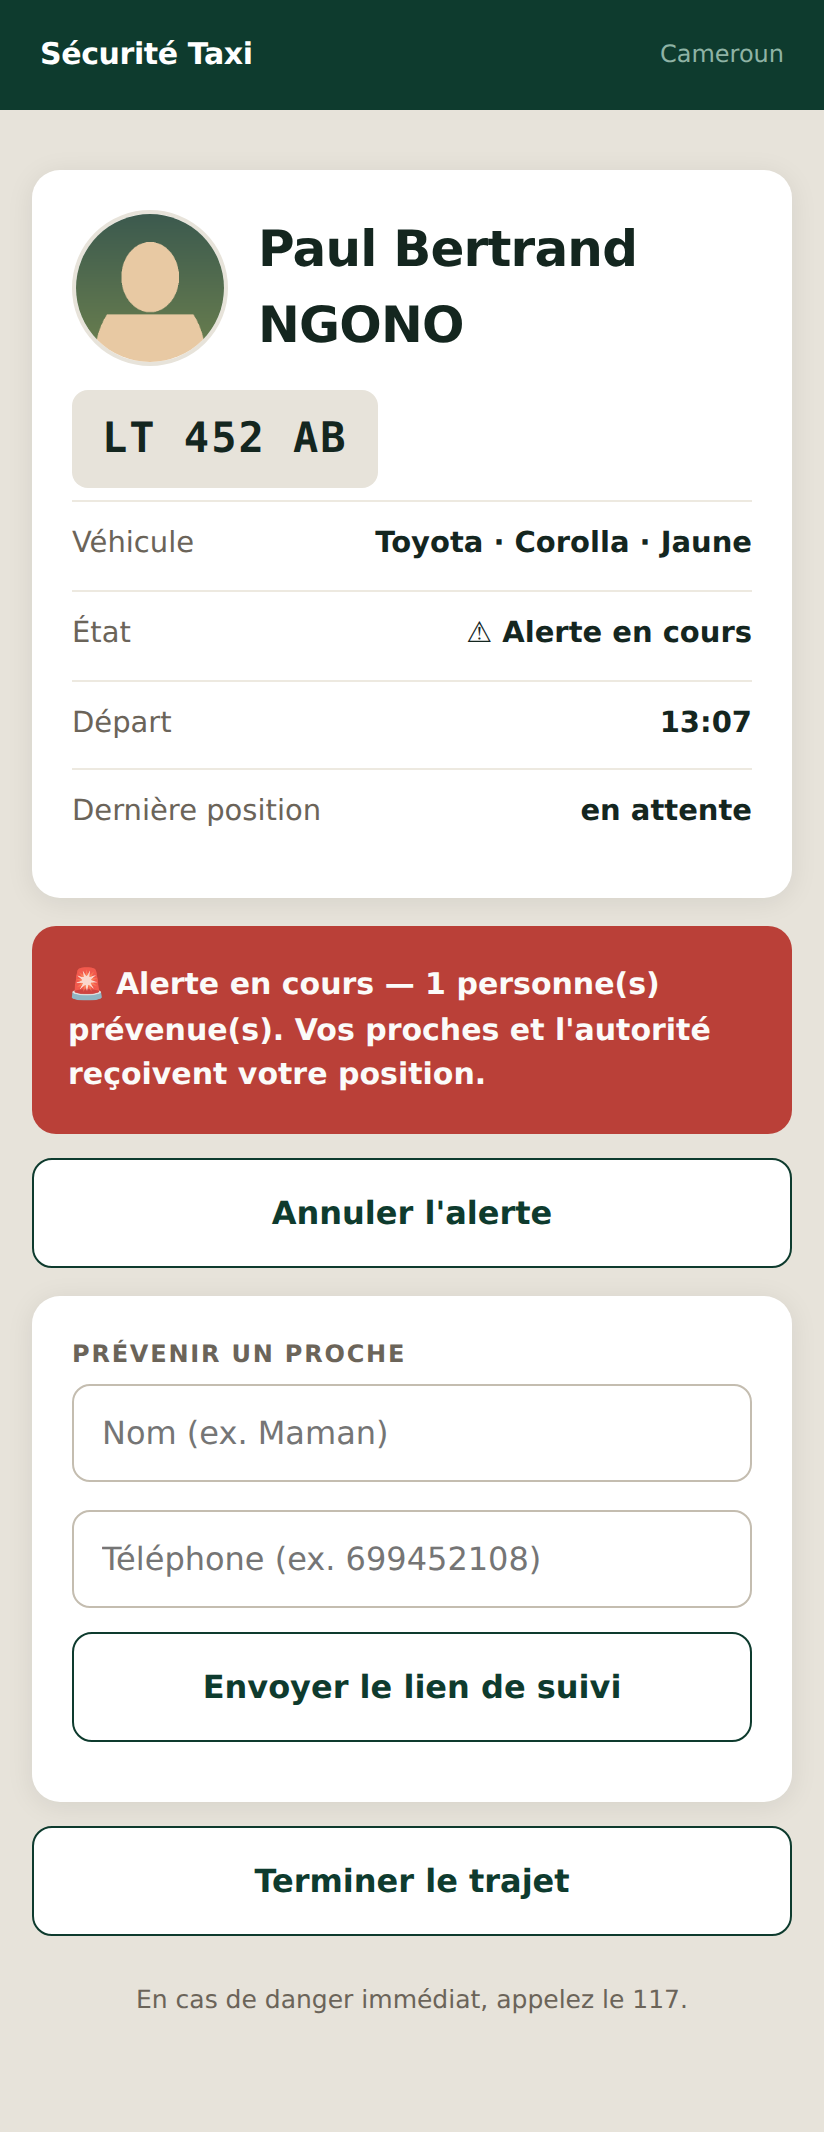
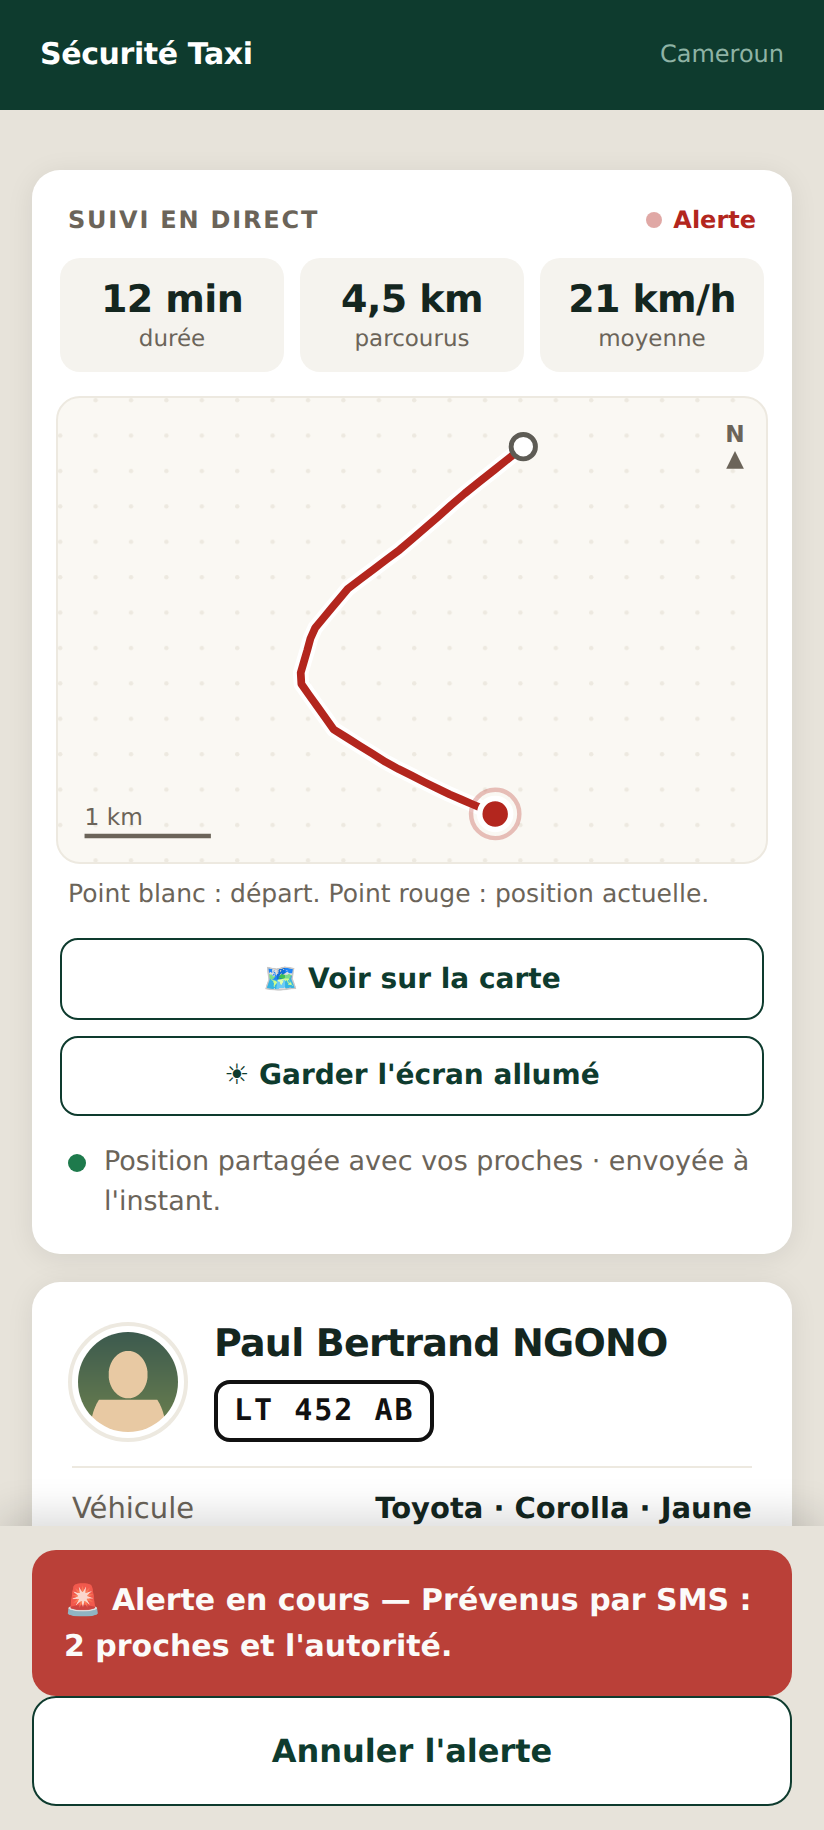
Montre le suivi en direct du trajet dans Sécurité Taxi
Captures refaites : le scan avec la photo du chauffeur, le trajet suivi
en direct avec les proches prévenus, l'alerte fixée sous le pouce (sa
vignette montre le bas de l'écran, là où vit la barre d'alerte). Chiffres
recalculés avec la même méthode (lignes TypeScript, SQL et shell ; commits
du dépôt) : 19 000 lignes, 4 parcours, 35 itérations. Leaflet rejoint la
pile, pour la carte des rues à la demande.

diff --git a/index.html b/index.html
@@ -324,6 +324,7 @@ section{padding:88px 0 0;}
    (de 0.25 à 0.45), et une grille aux hauteurs inégales laisse des vides.
    Le cadrage part du haut, là où se trouve l'essentiel de l'écran. */
 .vue img{width:100%;display:block;aspect-ratio:9/17;object-fit:cover;object-position:top;}
+.vue.bas img{object-position:bottom;}
 /* Les captures de bureau sont en 16:10 : les forcer au format téléphone
    les rognerait de moitié. */
 .galerie.bureau .vue img{aspect-ratio:16/10;}
@@ -557,8 +558,8 @@ footer{
         <h3>Sécurité Taxi Cameroun</h3>
         <p class="role">Sécurité des transports en commun</p>
         <p class="accroche-carte">L'information arrive avant la décision.</p>
-        <div class="mini-faits"><div class="mini-fait"><b>17 000</b><span>lignes de code</span></div><div class="mini-fait"><b>4</b><span>parcours distincts</span></div><div class="mini-fait"><b>32</b><span>itérations</span></div></div>
-        <div class="piles"><span class="pile">NestJS</span><span class="pile">TypeScript</span><span class="pile">PostgreSQL</span><span class="pile">Docker</span><span class="pile discret">+3</span></div>
+        <div class="mini-faits"><div class="mini-fait"><b>19 000</b><span>lignes de code</span></div><div class="mini-fait"><b>4</b><span>parcours distincts</span></div><div class="mini-fait"><b>35</b><span>itérations</span></div></div>
+        <div class="piles"><span class="pile">NestJS</span><span class="pile">TypeScript</span><span class="pile">PostgreSQL</span><span class="pile">Docker</span><span class="pile discret">+4</span></div>
         <span class="carte-aller">Voir le détail <span aria-hidden="true">→</span></span>
       </button>
       <button class="carte-projet monte" type="button" data-projet="linguacampus"
@@ -1033,8 +1034,8 @@ footer{
         <div class="saillant">
           <b>L'information arrive avant la décision.</b> Tout l'intérêt tient à cet
           instant : une vérification qui n'aurait lieu qu'une fois la portière fermée ne
-          servirait à rien. Une fois à bord, elle partage son trajet avec un proche et
-          peut déclencher une alerte d'un seul appui.
+          servirait à rien. Une fois à bord, elle suit sa course en direct, la partage
+          avec ses proches et garde sous le pouce un bouton d'alerte.
         </div>
         <p>
           Côté autorités : dossiers de chauffeurs, examen des pièces, file de traitement
@@ -1048,22 +1049,23 @@ footer{
           jours et les sauvegardes chiffrées, comme l'exige la loi n° 2024/017.
         </p>
         <div class="faits">
-          <div class="fait"><div class="n">17 000</div><div class="q">lignes de code</div></div>
+          <div class="fait"><div class="n">19 000</div><div class="q">lignes de code</div></div>
           <div class="fait"><div class="n">4</div><div class="q">parcours distincts</div></div>
-          <div class="fait"><div class="n">32</div><div class="q">itérations</div></div>
+          <div class="fait"><div class="n">35</div><div class="q">itérations</div></div>
         </div>
         <div class="piles">
           <span class="pile">NestJS</span><span class="pile">TypeScript</span>
           <span class="pile">PostgreSQL</span><span class="pile">Docker</span>
           <span class="pile">Caddy</span>
           <span class="pile">QR</span><span class="pile">Géolocalisation</span>
+          <span class="pile">Leaflet</span>
         </div>
       </div>
       <div class="galerie large">
         <figure class="vue"><img src="captures/taxi/1-scan.png" alt="Scan du code QR d'un taxi" loading="lazy"><figcaption>Scan avant de monter</figcaption></figure>
         <figure class="vue"><img src="captures/taxi/9-qr.png" alt="Code QR du chauffeur" loading="lazy"><figcaption>Code du chauffeur</figcaption></figure>
-        <figure class="vue"><img src="captures/taxi/2-trajet.png" alt="Partage de trajet" loading="lazy"><figcaption>Partage de trajet</figcaption></figure>
-        <figure class="vue"><img src="captures/taxi/3-alerte.png" alt="Déclenchement d'alerte" loading="lazy"><figcaption>Alerte d'urgence</figcaption></figure>
+        <figure class="vue"><img src="captures/taxi/2-trajet.png" alt="Suivi du trajet en direct : tracé, durée, distance, et les proches prévenus par SMS" loading="lazy"><figcaption>Suivi en direct</figcaption></figure>
+        <figure class="vue bas"><img src="captures/taxi/3-alerte.png" alt="Alerte d'urgence : la barre fixée en bas de l'écran dit qui a été prévenu par SMS" loading="lazy"><figcaption>Alerte d'urgence</figcaption></figure>
         <figure class="vue"><img src="captures/taxi/agent-examen.png" alt="Examen d'un dossier par un agent" loading="lazy"><figcaption>Examen par l'autorité</figcaption></figure>
         <figure class="vue"><img src="captures/taxi/8-dossier.png" alt="Dossier chauffeur : photo prise sur place et choix de la pièce d'identité" loading="lazy"><figcaption>Dossier chauffeur</figcaption></figure>
         <figure class="vue"><img src="captures/taxi/agent-alertes.png" alt="Écran de l'agent communal : une alerte en cours, avec la position et les personnes prévenues, au-dessus de la file de validation" loading="lazy"><figcaption>Alertes et file de l'agent</figcaption></figure>
